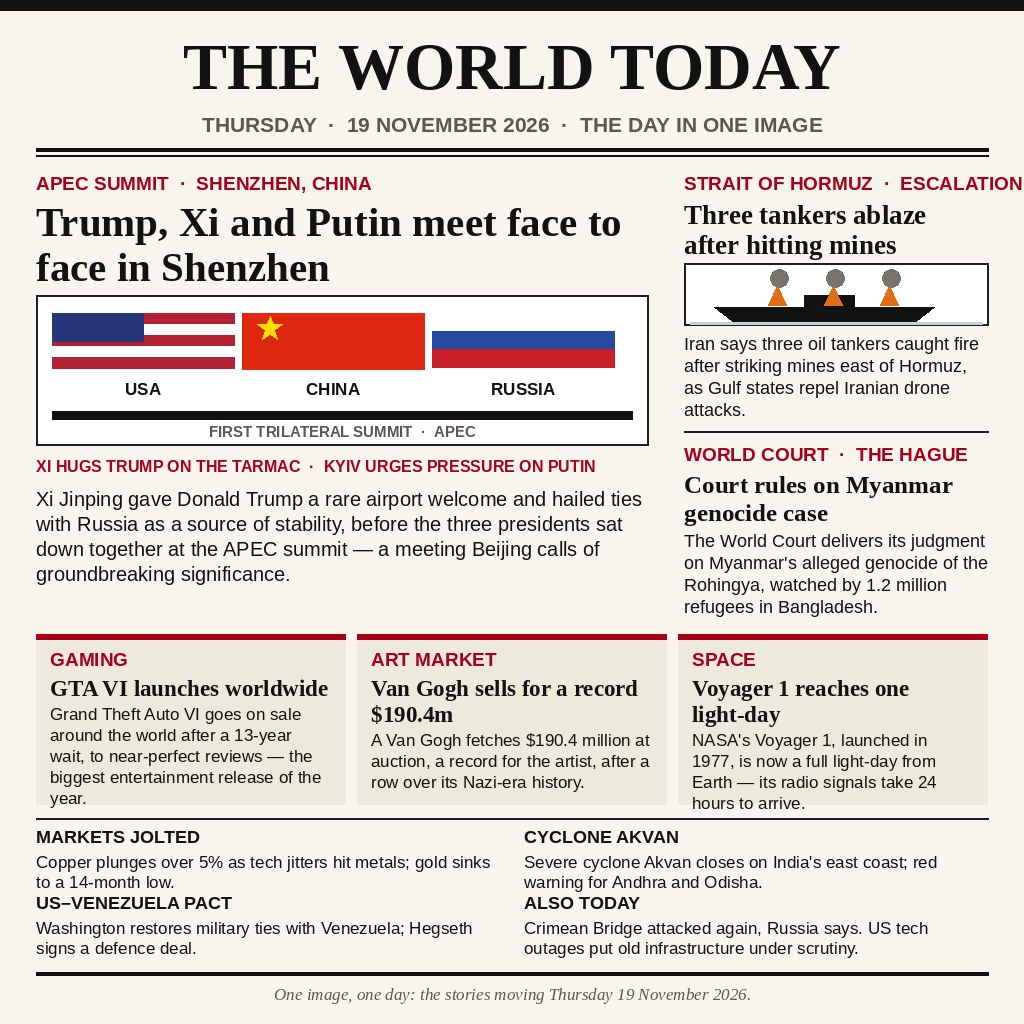
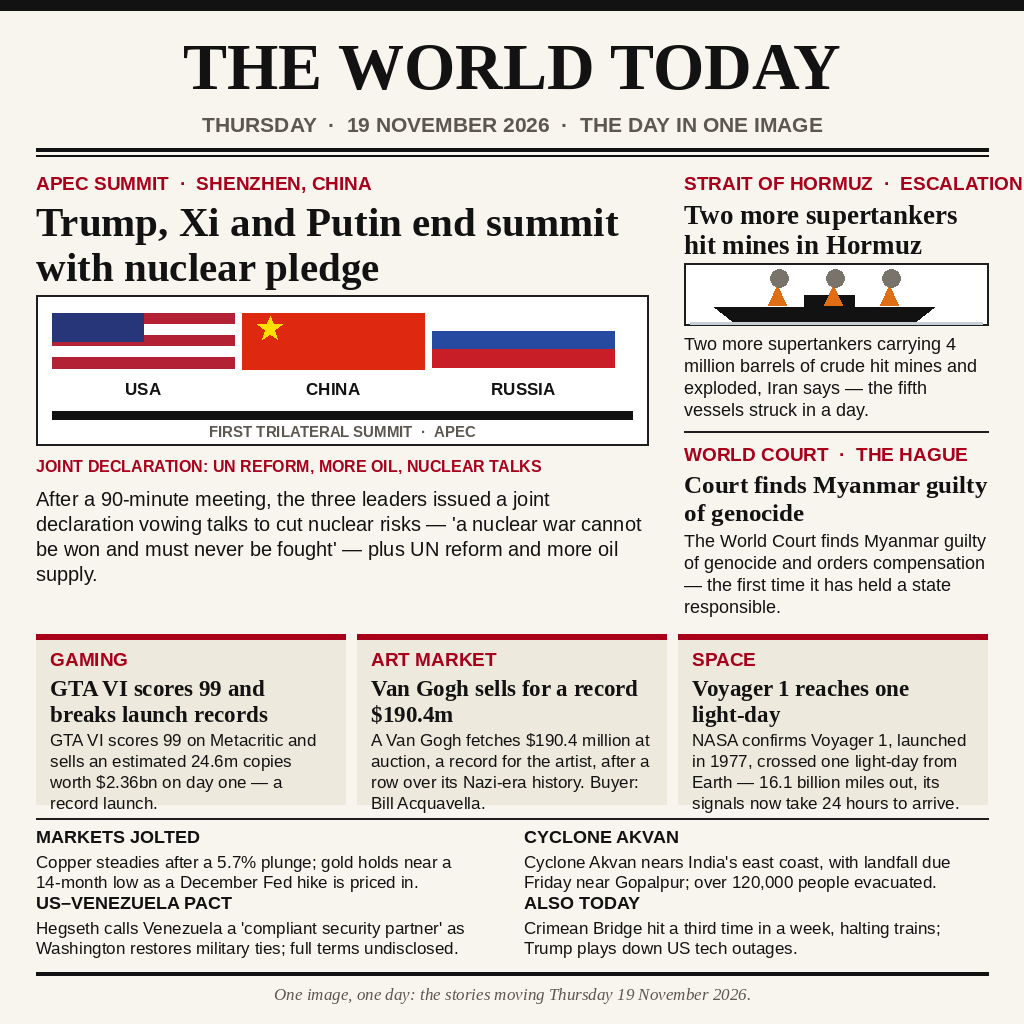
Full-day edition: summit declaration, ICJ verdict, second Hormuz mine strikes

diff --git a/generate_image.py b/generate_image.py
@@ -1,5 +1,8 @@
 """Render entry.png — a one-image newspaper front page for Thursday
-19 November 2026, drawn entirely with Pillow primitives.
+19 November 2026, drawn entirely with Pillow primitives. This is the
+full-day edition: it carries the day's later developments, including the
+Shenzhen summit declaration, the World Court verdict on Myanmar, and
+the second wave of mine strikes in the Strait of Hormuz.
 
 The submitted entry point (main.py) never runs this file; it ships the
 finished PNG. This script is kept in the repository so the artwork can be
@@ -103,7 +106,7 @@ def flag_panel(x, y, width, colours, label, emblem=None):
 def lead_story():
     x, w = 36, 612
     y = section_label(x, 172, "APEC SUMMIT  ·  SHENZHEN, CHINA")
-    y = paragraph(x, y, "Trump, Xi and Putin meet face to face in Shenzhen",
+    y = paragraph(x, y, "Trump, Xi and Putin end summit with nuclear pledge",
                   "headline", 41, w, gap=4) + 6
     box_h = 150
     pen.rectangle([x, y, x + w, y + box_h], fill=PALETTE["white"],
@@ -137,21 +140,21 @@ def lead_story():
     pen.text((x + w // 2, y + 128), "FIRST TRILATERAL SUMMIT  ·  APEC",
              font=face("bold", 15), fill=PALETTE["muted"], anchor="ma")
     y += box_h + 12
-    pen.text((x, y), "XI HUGS TRUMP ON THE TARMAC  ·  KYIV URGES PRESSURE ON PUTIN",
+    pen.text((x, y), "JOINT DECLARATION: UN REFORM, MORE OIL, NUCLEAR TALKS",
              font=face("bold", 16), fill=PALETTE["accent"])
     y += 30
     paragraph(x, y,
-              "Xi Jinping gave Donald Trump a rare airport welcome and hailed "
-              "ties with Russia as a source of stability, before the three "
-              "presidents sat down together at the APEC summit — a meeting "
-              "Beijing calls of groundbreaking significance.",
+              "After a 90-minute meeting, the three leaders issued a joint "
+              "declaration vowing talks to cut nuclear risks — 'a nuclear "
+              "war cannot be won and must never be fought' — plus UN reform "
+              "and more oil supply.",
               "body", 20, w, gap=5)
 
 
 def side_column():
     x, w = 684, 304
     y = section_label(x, 172, "STRAIT OF HORMUZ  ·  ESCALATION")
-    y = paragraph(x, y, "Three tankers ablaze after hitting mines",
+    y = paragraph(x, y, "Two more supertankers hit mines in Hormuz",
                   "headline", 27, w, gap=3) + 4
     pen.rectangle([x, y, x + w, y + 62], fill=PALETTE["white"],
                   outline=PALETTE["rule"], width=2)
@@ -166,18 +169,18 @@ def side_column():
     pen.line([x + 6, hull_y - 2, x + w - 6, hull_y - 2], fill=PALETTE["water"], width=3)
     y += 70
     y = paragraph(x, y,
-                  "Iran says three oil tankers caught fire after striking mines "
-                  "east of Hormuz, as Gulf states repel Iranian drone attacks.",
+                  "Two more supertankers carrying 4 million barrels of crude "
+                  "hit mines and exploded, Iran says — the fifth vessels "
+                  "struck in a day.",
                   "body", 18, w, gap=4) + 10
     pen.line([x, y, x + w, y], fill=PALETTE["rule"], width=2)
     y += 12
     y = section_label(x, y, "WORLD COURT  ·  THE HAGUE")
-    y = paragraph(x, y, "Court rules on Myanmar genocide case",
+    y = paragraph(x, y, "Court finds Myanmar guilty of genocide",
                   "headline", 25, w, gap=3) + 4
     paragraph(x, y,
-              "The World Court delivers its judgment on Myanmar's alleged "
-              "genocide of the Rohingya, watched by 1.2 million refugees in "
-              "Bangladesh.",
+              "The World Court finds Myanmar guilty of genocide and orders "
+              "compensation — the first time it has held a state responsible.",
               "body", 18, w, gap=4)
 
 
@@ -185,16 +188,17 @@ def story_boxes():
     top, height = 634, 170
     width = (PAGE - 72 - 24) // 3
     stories = [
-        ("GAMING", "GTA VI launches worldwide",
-         "Grand Theft Auto VI goes on sale around the world after a 13-year "
-         "wait, to near-perfect reviews — the biggest entertainment release "
-         "of the year."),
+        ("GAMING", "GTA VI scores 99 and breaks launch records",
+         "GTA VI scores 99 on Metacritic and sells an estimated 24.6m "
+         "copies worth $2.36bn on day one — a record launch."),
         ("ART MARKET", "Van Gogh sells for a record $190.4m",
          "A Van Gogh fetches $190.4 million at auction, a record for the "
-         "artist, after a row over its Nazi-era history."),
+         "artist, after a row over its Nazi-era history. Buyer: Bill "
+         "Acquavella."),
         ("SPACE", "Voyager 1 reaches one light-day",
-         "NASA's Voyager 1, launched in 1977, is now a full light-day from "
-         "Earth — its radio signals take 24 hours to arrive."),
+         "NASA confirms Voyager 1, launched in 1977, crossed one light-day "
+         "from Earth — 16.1 billion miles out, its signals now take 24 "
+         "hours to arrive."),
     ]
     for i, (label, headline, body) in enumerate(stories):
         bx = 36 + i * (width + 12)
@@ -210,17 +214,17 @@ def briefs():
     pen.line([36, top - 8, PAGE - 36, top - 8], fill=PALETTE["rule"], width=2)
     items = [
         ("MARKETS JOLTED",
-         "Copper plunges over 5% as tech jitters hit metals; gold sinks to a "
-         "14-month low."),
+         "Copper steadies after a 5.7% plunge; gold holds near a 14-month "
+         "low as a December Fed hike is priced in."),
         ("CYCLONE AKVAN",
-         "Severe cyclone Akvan closes on India's east coast; red warning for "
-         "Andhra and Odisha."),
+         "Cyclone Akvan nears India's east coast, with landfall due Friday "
+         "near Gopalpur; over 120,000 people evacuated."),
         ("US–VENEZUELA PACT",
-         "Washington restores military ties with Venezuela; Hegseth signs a "
-         "defence deal."),
+         "Hegseth calls Venezuela a 'compliant security partner' as "
+         "Washington restores military ties; full terms undisclosed."),
         ("ALSO TODAY",
-         "Crimean Bridge attacked again, Russia says. US tech outages put old "
-         "infrastructure under scrutiny."),
+         "Crimean Bridge hit a third time in a week, halting trains; Trump "
+         "plays down US tech outages."),
     ]
     width = (PAGE - 72 - 24) // 2
     for i, (headline, body) in enumerate(items):
